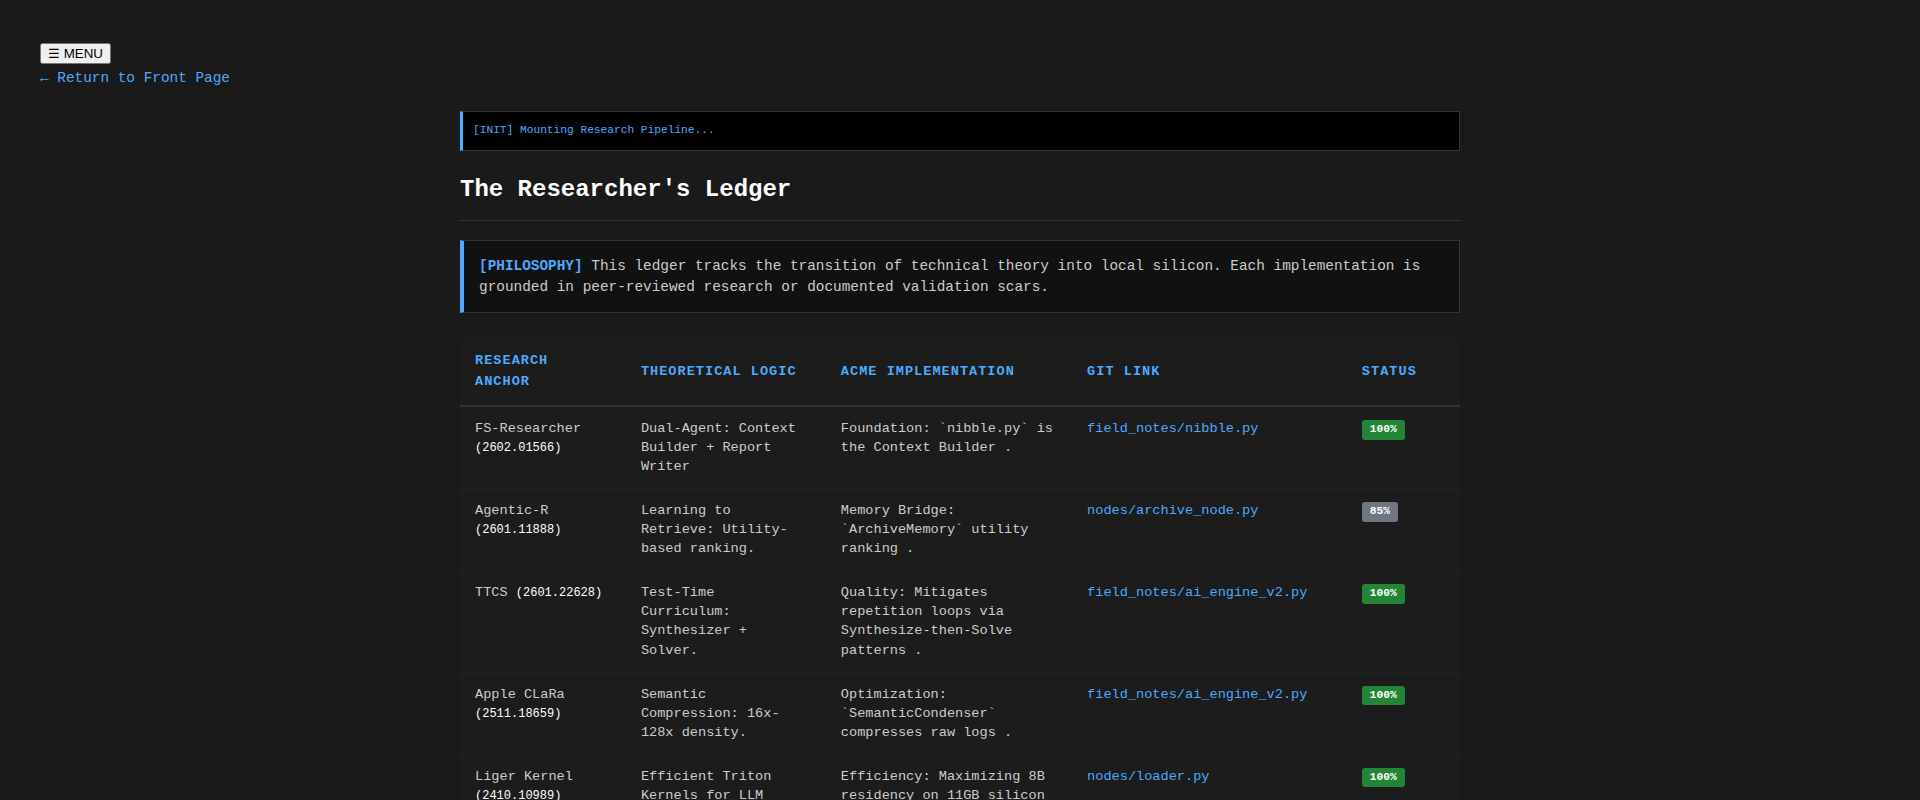
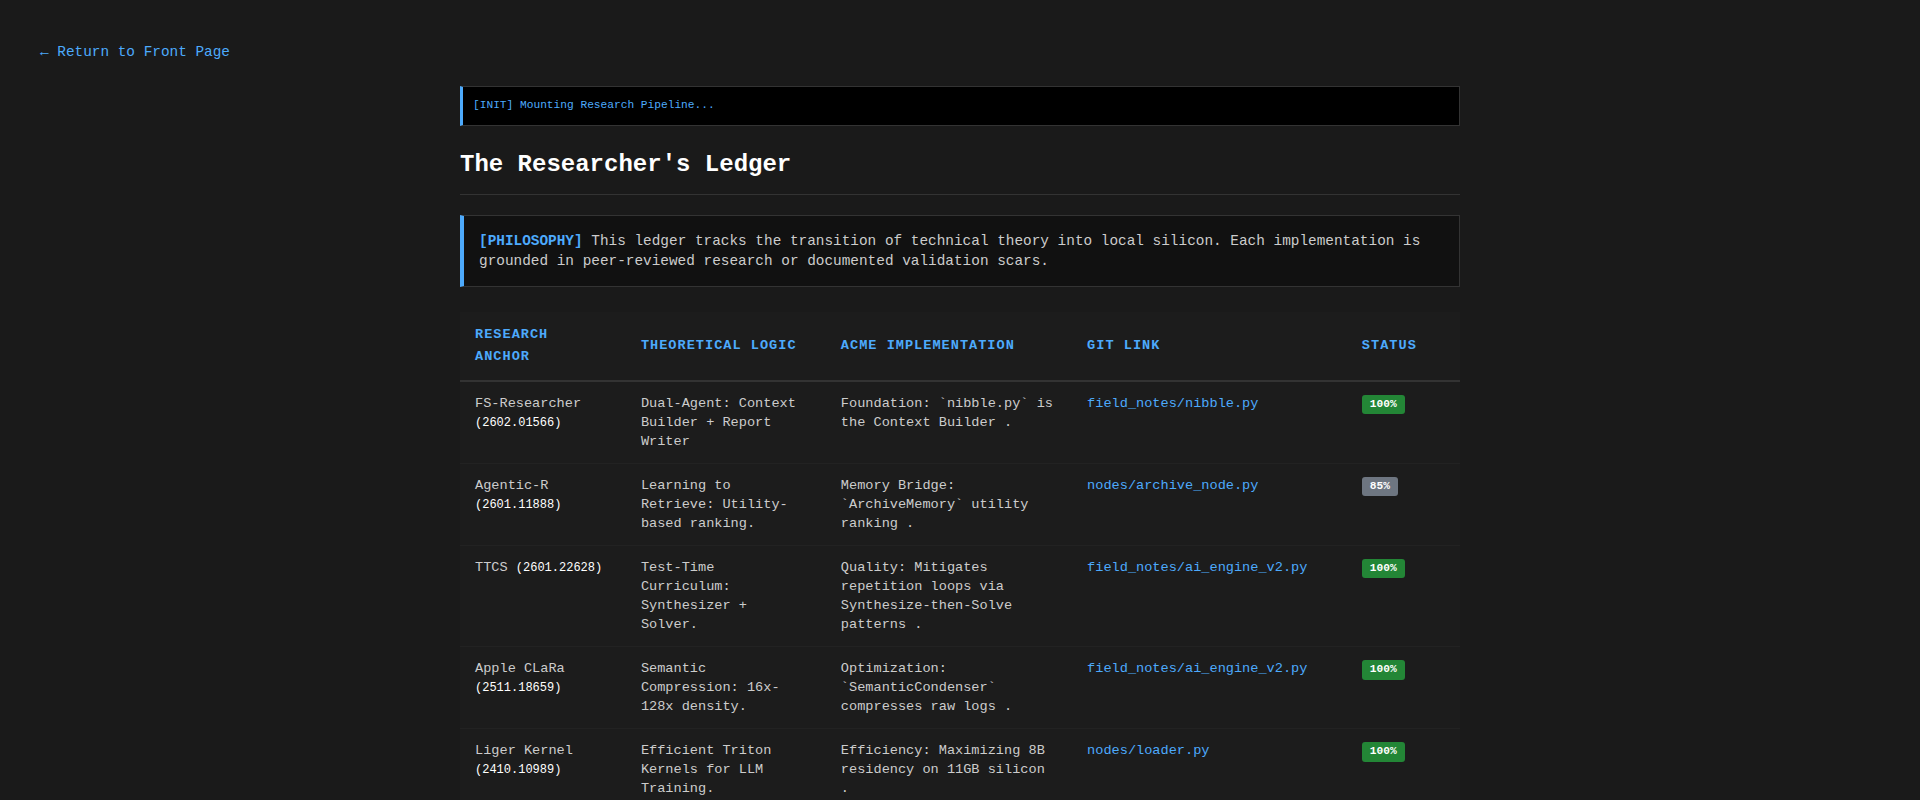
feat(public): relocate stories card out of airlock, remove menu toggles from public pages

diff --git a/protocols.html b/protocols.html
@@ -78,7 +78,7 @@
 </head>
 <body>
 
-    <button id="menu-toggle">☰ MENU</button>
+    
 
     <div class="nav-home"><a href="index.html">← Return to Front Page</a></div>
 
@@ -645,8 +645,19 @@
 *   **The Principle**: Sisyphus must not query ChromaDB with raw, conversational user prompts verbatim (e.g.</code>"I want to edit a file"<code>).
 *   **The Practice**: Sisyphus must translate the user's conversational intent into precise domain-specific search query keywords (e.g.</code>"safe file write"<code>,</code>"atomic file patch"<code>,</code>"lint gate"<code>) before querying the</code>behavioral_dna<code>and</code>feature_dna<code>collections. This ensures maximum retrieval confidence (minimum distance score).
 11. **Explicit Blueprint Prompting (No-Boilerplate Guardrail)**:
-*   **The Principle**: Cloud orchestrators (Gemini) must not delegate open-ended logic or design descriptions to local 14B workers. They must compile exact HTML/CSS blocks, BeautifulSoup scripts, or shell templates directly inside the prompt's</code>[TARGET SPECIFICATION]`.
-*   <strong>The Practice</strong>: This minimizes local token generations, reduces context overhead, avoids structural hallucinations, and allows the user to review the exact code/design inside the Master Sprint Plan prior to execution.</p>
+*   **The Principle**: Cloud orchestrators (Gemini) must not delegate open-ended logic or design descriptions to local 14B workers. They must compile exact HTML/CSS blocks, BeautifulSoup scripts, or shell templates directly inside the prompt's</code>[TARGET SPECIFICATION]<code>.
+*   **The Practice**: This minimizes local token generations, reduces context overhead, avoids structural hallucinations, and allows the user to review the exact code/design inside the Master Sprint Plan prior to execution.
+12. **Mandatory Shell-Based Execution**: All tactical worker delegation must be initiated via the shell-based</code>opencode<code>CLI (Method B) rather than using the built-in</code>invoke_subagent<code>tool (Method A). The built-in tool is reserved for read-only research tasks or meta-analysis. This ensures all developer tasks are properly registered in the OpenAgent session list and visible in the local TUI/dashboard.
+13. **Socket-Activated Server Hibernation &amp; Warm-Up**:
+*   **The Principle**: The OpenAgent server daemon (</code>opencode-core.service<code>) is socket-activated by</code>opencode.socket<code>on port 4096 and configured with</code>StopWhenUnneeded=true<code>. When idle, it shuts down (hibernates) to save memory and GPU resources.
+*   **The Practice**: Before launching a task against the server (via</code>opencode run --attach http://127.0.0.1:4096/<code>), AGY (the parent co-pilot client) must proactively wake the server from hibernation by querying the socket (e.g. running a fast</code>curl -I http://127.0.0.1:4096/<code>or</code>opencode session list | cat<code>) and waiting 1-2 seconds for initialization to complete before sending the task.
+14. **Narrow Scope &amp; On-Demand Reference Pattern (Token &amp; Context Management)**:
+*   **Critical Evaluation of the Dual-Directory Design**: Initializing OpenAgent targeting the parent directory</code>/home/jallred/Dev_Lab<code>(which spans both the</code>HomeLabAI<code>and</code>Portfolio_Dev<code>workspaces) is a major design pitfall. Even with</code>.opencodeignore<code>active, the collective codebase mapping (file hierarchy, git diffs, branch states, and XML schema trees) compiles a massive baseline context (40K+ tokens) on the very first turn, immediately exhausting TPM quotas on cloud API free tiers (e.g. Gemini's 40K TPM or Groq's 12K TPM).
+*   **Subdirectory Ignore Bypass Risk**: Launching an OpenAgent session from a subdirectory (e.g., inside</code>HomeLabAI<code>) without</code>.opencodeignore<code>being present in that specific subdirectory forces the server to traverse and scan unignored virtual environments (like</code>.venv/<code>at 88K+ tokens) and node modules. The root</code>.opencodeignore<code>is *only* parsed if the session is initialized targeting the root or if a local ignore is present in the targeted subdirectory.
+*   **On-Demand Reference Practice**: 
+    1. Always target the narrowest active project folder (e.g.</code>--dir /home/jallred/Dev_Lab/HomeLabAI<code>).
+    2. To reference planning files located outside the workspace boundary, provide a direct link using the</code>file://<code>scheme directly in the prompt (e.g.,</code>file:///home/jallred/Dev_Lab/Portfolio_Dev/SPRINT_PLAN_SPR_39_0.md#Story-1<code>). The server will fetch that file on-demand via its read tools, avoiding the indexing cost of the rest of the portfolio repository.
+*   **Relieving the Coordinator (BKM-020 Integration)**: To prevent multiple tool round-trips (which compound context size by sending the 40K baseline back and forth), the prompt must contain detailed implementation context (aligning with BKM-020's "Task Verbosity" principle). Provide explicit blueprints, exact target file paths, timing assertions, and output JSON structures in the initial dispatch. High-density instructions allow the orchestrator (</code>Sisyphus`) to design, write, and run the worker tests in a single, self-contained turn, preventing multi-turn context inflation.</p>
 </li>
 </ol>
                             </div>

diff --git a/index.html b/index.html
@@ -176,18 +176,18 @@
                 </div>
             </a>
 
-            <div class="airlock-divider">
-                <div class="airlock-line"></div>
-                <div class="airlock-bubble">Airlock</div>
-            </div>
-
-            <a href="https://notes.jason-lab.dev/stories.html" class="trailer-card">
+            <a href="stories.html" class="trailer-card">
                 <img src="assets/trailers/stories_trailer.jpg" class="trailer-img" alt="Work Stories">
                 <div class="trailer-info">
                     <div class="trailer-title">Work Stories</div>
                     <div class="trailer-desc">High-density engineering narratives from the Intel Xeon and Knight's Landing eras. Focus on systems architecture and architectural scars.</div>
                 </div>
             </a>
+
+            <div class="airlock-divider">
+                <div class="airlock-line"></div>
+                <div class="airlock-bubble">Airlock</div>
+            </div>
 
             <a href="https://notes.jason-lab.dev/timeline.html" class="trailer-card">
                 <img src="assets/trailers/timeline_trailer.jpg" class="trailer-img" alt="Work Notes">

diff --git a/research.html b/research.html
@@ -94,7 +94,7 @@
 </head>
 <body>
 
-    <button id="menu-toggle">☰ MENU</button>
+    
 
     <div class="nav-home"><a href="index.html">← Return to Front Page</a></div>
 

diff --git a/stories.html b/stories.html
@@ -60,7 +60,7 @@
     </style>
 </head>
 <body>
-<button id="menu-toggle">☰ MENU</button>
+
 <nav id="sidebar"><div class="nav-home"><a href="index.html">← Return to Front Page</a></div>
 
 <input aria-label="Filter navigation" id="nav-filter" placeholder="Filter nodes..." type="text"/>